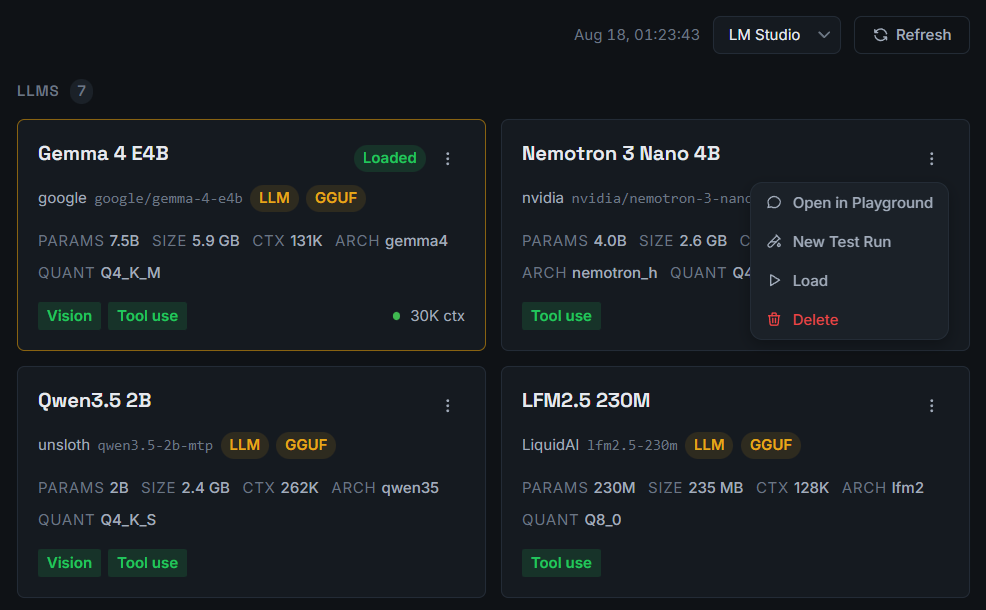
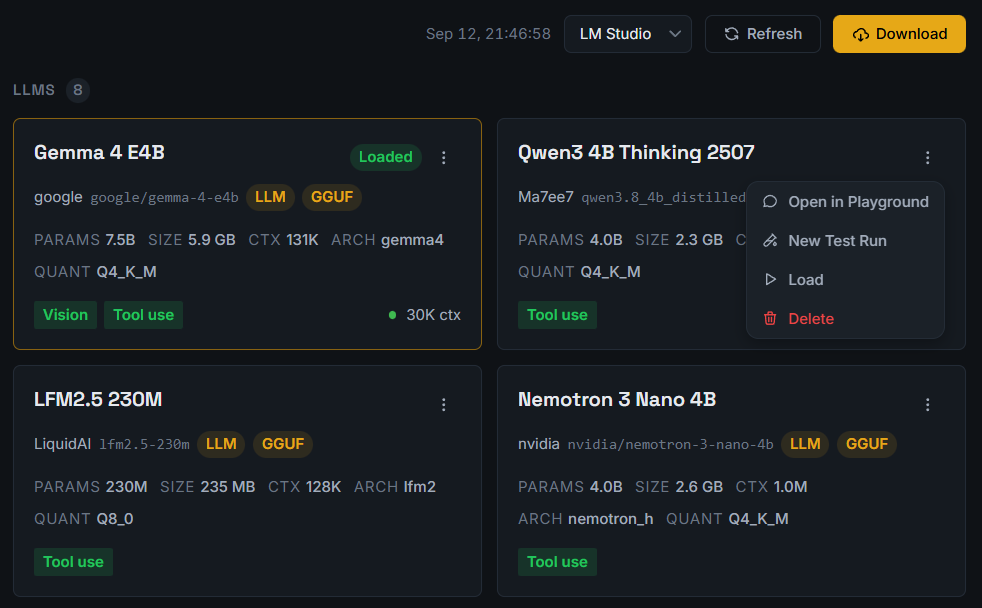
docs(website): added use cases to landing and docs (#71)
* docs(website): added use cases to landing and docs
* docs(readme): added download section with macos setup note

diff --git a/website/src/styles/landing.css b/website/src/styles/landing.css
@@ -356,12 +356,11 @@ a:hover {
 /* ---------- sequence ---------- */
 
 .seq {
+  list-style: none;
+  margin: 0;
+  padding: 0;
   display: grid;
-  gap: 1px;
-  background: var(--cn-line);
-  border: 1px solid var(--cn-line);
-  border-radius: var(--cn-radius);
-  overflow: hidden;
+  gap: clamp(28px, 3.5vw, 44px);
 }
 
 @media (min-width: 700px) {
@@ -377,19 +376,19 @@ a:hover {
 }
 
 .seq__step {
-  background: var(--cn-panel);
-  padding: 28px 26px 30px;
+  position: relative;
   display: flex;
   flex-direction: column;
-  gap: 12px;
-}
-
-.seq__n {
-  font-size: 0.85rem;
-  font-weight: 600;
-  font-variant-numeric: tabular-nums;
-  letter-spacing: 0.06em;
-  color: var(--cn-amber);
+  gap: 10px;
+  padding-top: 22px;
+  background-image: linear-gradient(
+    to right,
+    var(--cn-amber) var(--seq-fill, 100%),
+    var(--cn-line-2) var(--seq-fill, 100%)
+  );
+  background-size: 100% 3px;
+  background-repeat: no-repeat;
+  background-position: left top;
 }
 
 .seq__t {
@@ -405,6 +404,72 @@ a:hover {
 .seq__step p {
   margin: 0;
   font-size: 0.97rem;
+  color: var(--cn-text-2);
+  max-width: 34ch;
+}
+
+/* ---------- use cases ---------- */
+
+.cases {
+  display: grid;
+  gap: 1px;
+  background: var(--cn-line);
+  border: 1px solid var(--cn-line);
+  border-radius: var(--cn-radius);
+  overflow: hidden;
+}
+
+@media (min-width: 700px) {
+  .cases {
+    grid-template-columns: repeat(2, 1fr);
+  }
+}
+
+@media (min-width: 1060px) {
+  .cases {
+    grid-template-columns: repeat(3, 1fr);
+  }
+}
+
+.case {
+  background: var(--cn-panel);
+  padding: 26px 24px 28px;
+  display: flex;
+  flex-direction: column;
+  gap: 10px;
+  text-decoration: none;
+  transition:
+    background 0.15s ease,
+    box-shadow 0.15s ease;
+}
+
+.case:hover,
+.case:focus-visible {
+  background: var(--cn-panel-2);
+  box-shadow: inset 2px 0 0 var(--cn-amber);
+  text-decoration: none;
+}
+
+.case__t {
+  font-family: var(--cn-display);
+  font-weight: 600;
+  letter-spacing: 0.02em;
+  font-size: 1.35rem;
+  line-height: 1.1;
+  color: var(--cn-text);
+  margin: 0;
+}
+
+.case:hover .case__t,
+.case:focus-visible .case__t {
+  color: var(--cn-amber);
+  text-decoration: underline;
+  text-underline-offset: 3px;
+}
+
+.case p {
+  margin: 0;
+  font-size: 0.95rem;
   color: var(--cn-text-2);
 }
 

diff --git a/website/src/content/docs/use-cases.md b/website/src/content/docs/use-cases.md
@@ -1,0 +1,157 @@
+---
+title: Use cases
+description: The decisions Cannonade puts numbers behind, from prompt iteration to choosing a model, a provider, and what it costs.
+sidebar:
+  order: 0
+---
+
+Writing a suite costs you an afternoon, and it pays that back by being re-run: against the
+next model, the next prompt, the next version of a provider. These are the decisions it puts
+numbers behind.
+
+## Prompt engineering
+
+Every save of a shared prompt appends a version, and a run stores the text it actually sent.
+So the suite becomes the measurement: change the wording, run it again, and the improvement
+you think you made is either in the scores or it is not.
+
+Two versions can share a single run. Say you are tightening the voice of a support reply and
+you think version 4 of the prompt is calmer than version 3: a duplicated case with one copy
+pinned to each version, both carrying an `llm_rubric` criterion for the thing actually in
+dispute, scores them on identical input. A rewrite you could only have opinions about comes
+back as two numbers.
+
+Temperature is worth holding at 0 for this comparison. Above it, a difference of a few points
+is as likely to be sampling noise as it is the edit.
+
+See
+[Prompts and versioning](/docs/guides/prompts-and-versioning/).
+
+## Comparing local models
+
+A leaderboard tells you how a model handles someone else's questions. A suite built around
+the work you actually need done, run across every candidate at once, puts them all on
+identical inputs on the same hardware in the same session.
+
+Breadth tends to beat volume here. Twenty cases that each catch a different failure tell you
+more than two hundred variations of one question, and a suite that re-runs in a few minutes
+is one that actually gets re-run. The inputs that embarrassed a model before are the ones
+worth keeping: the ambiguous request, the one with a typo, the one where the right answer is
+"I don't know".
+
+The per-model pass rate is the summary, but the cases where models disagree carry the real
+information. The ones everything passes are only proving your floor.
+
+## Model discovery
+
+A model you have never used inherits a suite that already exists. Adding it to the next run
+of a suite you trust gives you its numbers on your own cases the day it ships, before anyone
+has written up how good it is.
+
+This is the cheapest use case to adopt because it needs no new work, and the one that
+compounds: every suite you keep around is a permanent intake test for models that do not
+exist yet. When a new release is interesting, the question is already written down.
+
+## Regression checks
+
+Models move underneath you: a provider updates a version behind a stable name, you swap a
+gateway, someone edits a shared prompt. Re-running the suite tells you what changed.
+
+A case kept for this purpose works best held still: pinned to a fixed prompt version rather
+than following latest, and at temperature 0, so a re-run differs only where the model does. A
+regression case left on the latest prompt eventually fails for a reason that has nothing to
+do with the model, which is a confusing afternoon.
+
+Runs are kept on disk as records of what was sent and what came back, so the comparison you
+want is usually last month's run against today's, not today's against your memory of it.
+
+## Structured output reliability
+
+Working once in the playground is not the same as working twenty times out of twenty. The
+output contract is worth scoring separately from the content, since a correct answer in the
+wrong shape still breaks your code.
+
+Say a case has to return a refund record with a status, an amount, and a currency.
+`json_match` compares the key paths on both sides and scores the share that match, so it
+catches the run where the model quietly drops the currency, not only the run where the
+document fails to parse at all.
+
+A second evaluator covers the rest: a `contains` check for a triple backtick, negated. Both
+structure evaluators read the entire output, so perfect JSON inside a markdown fence scores
+0, and the negated check is what tells you that is the reason rather than leaving you to
+work it out from a case that looks inexplicably broken. See
+[Evaluators](/docs/reference/evaluators/#structure).
+
+## Cost calculation
+
+Cases representing your smallest, largest, and typical inputs, run against the model you are
+considering, report the tokens spent and the cost the provider charged. The figure comes from
+real requests rather than a token count you estimated.
+
+The spread is the point. A median case tells you the bill you expect; the large case tells
+you the bill when a user pastes a whole document in, which is the one that hurts. That
+maximum case earns its keep by being genuinely adversarial rather than merely longish, and
+**Max Tokens** set to what production would really allow, since an unbounded reply is a
+different price.
+
+Per-case cost multiplied by the volume you expect, rather than the volume you hope for, is
+the number worth writing down. Judge costs are reported apart from the model under test, so
+a suite graded by `llm_rubric` will not inflate it.
+
+Cloud providers report cost; local models usually report tokens and timing only.
+
+## Cost optimization
+
+The suite you already have answers the next question for you: does a cheaper model clear the
+same bar? The expensive model and a few smaller ones in one run puts pass rate and cost side
+by side.
+
+The cases define what good enough means, so dropping down becomes a decision you can defend
+rather than a risk you are taking. A small model at 96% of the pass rate for a fraction of
+the price is an easy call once both numbers are visible, and the cases it fails show exactly
+what you would be giving up. Sometimes the answer is neither model but a split: the cheap one
+for the common path, the expensive one for the cases you watched it fail.
+
+Speed is worth reading next to cost, because price says nothing about latency either way. The
+cheaper candidate might also be the faster one, which leaves no tradeoff to weigh, or it might
+be slower than the model you are already paying for. Both happen, and which one you get
+depends on the model, the hardware, and how the provider serves it, so the run is the only
+place the answer exists.
+
+## Provider comparison
+
+The same weights served two different ways are not the same product. Price, speed, and what
+the endpoint reports back all differ, and so do context limits and quantization choices the
+server does not always advertise.
+
+With both configured and pointed at the same cases, scores that diverge on identical inputs
+and identical sampling settings mean something in the serving stack differs from what you
+assumed. The reported metrics differ too: an OpenAI-compatible endpoint often returns less
+than a native provider, and Cannonade leaves a number blank rather than estimating it. See
+[Providers](/docs/reference/providers/#what-each-provider-supports).
+
+This is not only a question about cloud gateways. Locally, a model file run through two
+different servers is still two configurations, each with its own defaults for context size,
+batching, offload, and how much of the model reaches the GPU. A difference in throughput
+between them is worth knowing about before you settle on one, and the same suite measures it
+the same way it measures anything else: both providers configured, both given the identical
+cases, both reporting their own numbers.
+
+## Quantization and hardware tuning
+
+Locally, the same model at several quantization levels is several models. Two or three of
+them in one run show where quality starts to go and whether the speed bought back is worth
+it.
+
+Advice about which quantization is safe gets passed around as a general rule, but it was
+formed on a particular model doing a particular job. A run tells you whether it holds for the
+model you are using and the work you need from it.
+
+Speed deserves the same scepticism. A quantization that barely fits in memory can average
+well and still stall on individual responses, so the minimum tokens per second is worth
+reading next to the average rather than the average on its own. See
+[Understand your results](/docs/guides/understand-your-results/).
+
+See [Model downloads](/docs/guides/model-downloads/) for picking a quantization, and the
+[test suite format](/docs/reference/test-suite-format/) if you would rather generate the
+cases than click through them.

diff --git a/README.md b/README.md
@@ -41,6 +41,29 @@ harness or shipping your prompts to a third-party service.
 | Vercel     | Access hundreds of models via AI Gateway |
 | More       | More supported providers are coming soon |
 
+## Download
+
+Grab the build for your platform from the
+[latest release](https://github.com/cannonade-ai/cannonade/releases/latest):
+
+| Platform | Build                     |
+| -------- | ------------------------- |
+| Windows  | `.exe` installer          |
+| macOS    | `.dmg` (Apple silicon)    |
+| Linux    | `.AppImage` and `.deb`    |
+
+> [!NOTE]
+> The macOS build is not code-signed or notarized, so Gatekeeper reports it as damaged
+> on first launch. Copy `Cannonade.app` into `/Applications`, then remove the quarantine
+> flag before opening it:
+>
+> ```sh
+> xattr -dr com.apple.quarantine /Applications/Cannonade.app
+> ```
+>
+> Full instructions, including what to do if macOS still blocks the app, are in the
+> [macOS setup docs](https://cannonade.app/docs/getting-started/quick-start/#macos-needs-an-extra-step).
+
 ## Development
 
 Built with Electron, Vue 3, TypeScript, Vite, Pinia, and Sass.

diff --git a/website/src/content/docs/index.md b/website/src/content/docs/index.md
@@ -7,6 +7,11 @@ Cannonade is a cross-platform desktop app for building test suites, running them
 several models, and comparing the results. There is no eval harness to write and nothing
 is sent to a third party unless you configure a cloud provider yourself.
 
+## Use cases
+
+[Decisions it puts numbers behind](/docs/use-cases/): prompt iteration, model and provider
+comparison, cost, and local hardware tuning.
+
 ## Getting started
 
 Start here if you are new.
